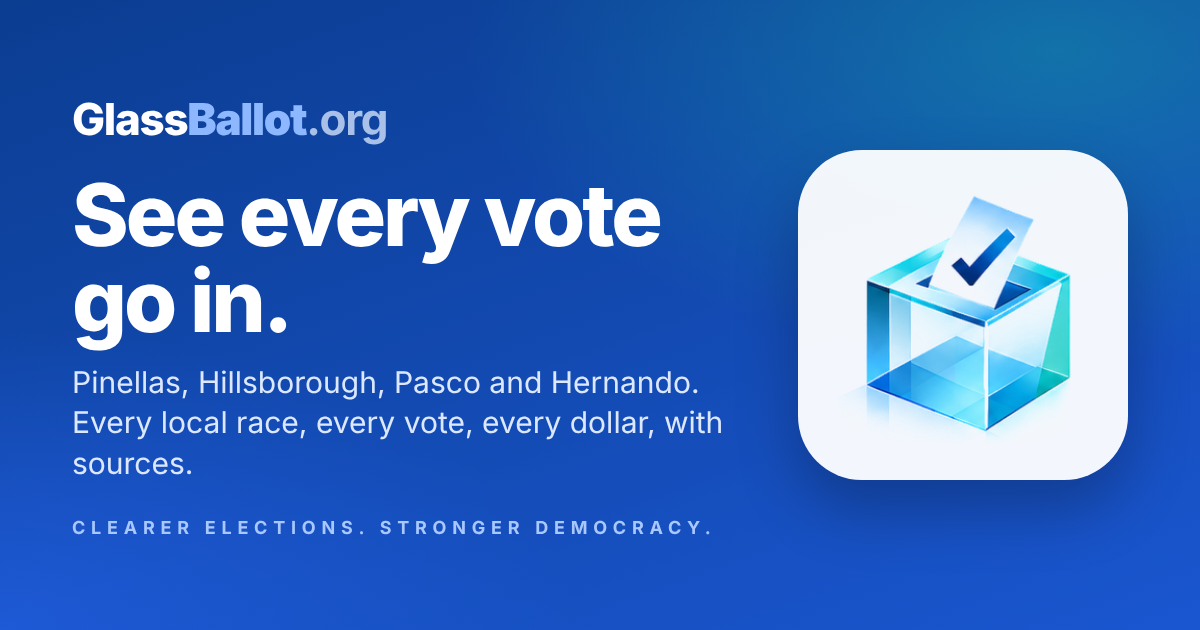
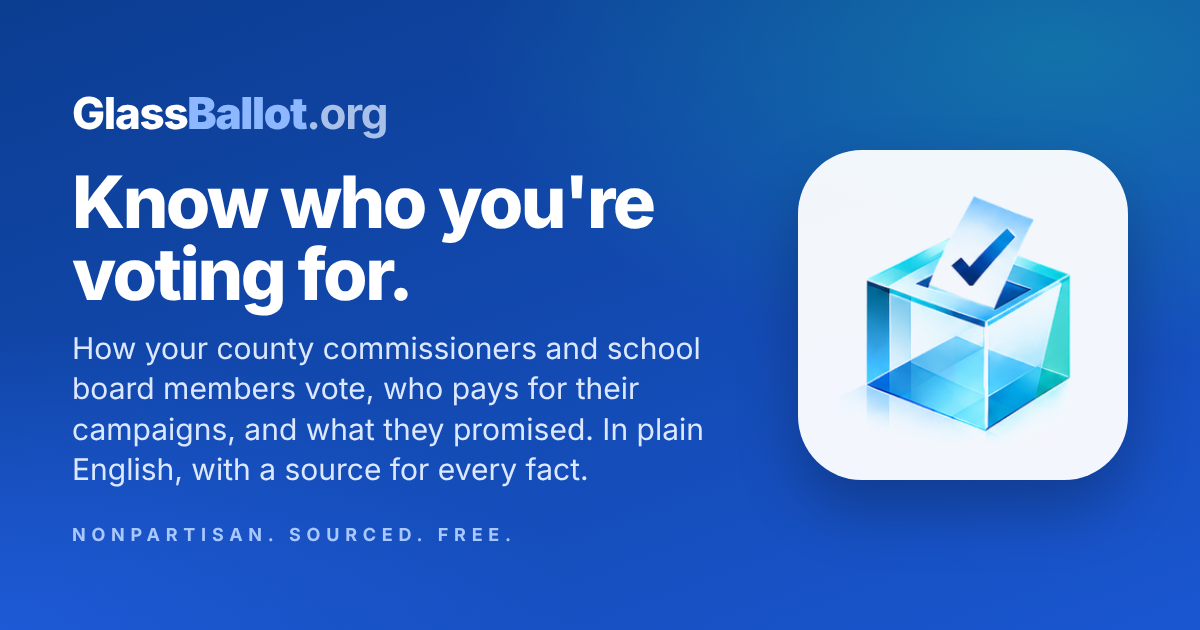
New share card and title: 'Know who you're voting for.'
Claude-Session: https://claude.ai/code/session_01SbucN7eT2yuPfmwq5x7Te8

Changed region(s): [[0.0617, 0.2714, 0.6167, 0.7841], [0.0617, 0.8143, 0.5858, 0.8746], [0.0617, 0.1508, 0.3392, 0.2413]]

diff --git a/dist/index.html b/dist/index.html
@@ -10,7 +10,7 @@
 <meta name="theme-color" content="#0B3D91">
 <meta property="og:type" content="website">
 <meta property="og:site_name" content="Glass Ballot">
-<meta property="og:title" content="Glass Ballot: see every vote go in">
+<meta property="og:title" content="Glass Ballot: know who you're voting for">
 <meta property="og:description" content="Nonpartisan voter guide to Florida county commission and school board races. Every local race, every commission vote, who funds each candidate, and a source behind every fact.">
 <meta property="og:url" content="https://glassballot.org/">
 <meta property="og:image" content="https://glassballot.org/og.png">

diff --git a/pipeline/dist.py b/pipeline/dist.py
@@ -31,7 +31,7 @@ HEAD = f"""<!doctype html>
 <meta name="theme-color" content="#0B3D91">
 <meta property="og:type" content="website">
 <meta property="og:site_name" content="Glass Ballot">
-<meta property="og:title" content="Glass Ballot: see every vote go in">
+<meta property="og:title" content="Glass Ballot: know who you're voting for">
 <meta property="og:description" content="{DESC}">
 <meta property="og:url" content="{SITE}/">
 <meta property="og:image" content="{SITE}/og.png">
@@ -51,16 +51,16 @@ body{margin:0;width:1200px;height:630px;font-family:"Plus Jakarta Sans",system-u
 background:radial-gradient(90% 90% at 88% 8%,rgba(20,184,166,.38),transparent 55%),radial-gradient(80% 80% at 0% 100%,rgba(37,99,235,.6),transparent 60%),linear-gradient(160deg,#0B3D91,#1A56D0)}
 .w{box-sizing:border-box;height:630px;padding:64px 72px;display:grid;grid-template-columns:1fr 330px;gap:30px;align-items:center}
 .b{font-weight:800;font-size:44px;letter-spacing:-.03em}.b b{color:#8DB8FF}.b i{font-style:normal;color:#A9C0E8;font-weight:700}
-h1{margin:26px 0 18px;font-size:86px;line-height:1;letter-spacing:-.035em;font-weight:800}
+h1{margin:26px 0 18px;font-size:72px;line-height:1;letter-spacing:-.035em;font-weight:800}
 p{margin:0;font-size:30px;color:#DCE8FF;line-height:1.35;font-family:Inter,system-ui,sans-serif}
 .t{margin-top:34px;font-size:18px;letter-spacing:.32em;font-weight:700;color:#A9C8FF}
 .box{width:330px;height:330px;border-radius:64px;background:rgba(255,255,255,.95);display:flex;align-items:center;justify-content:center;box-shadow:0 30px 60px rgba(0,0,0,.25)}
 .box img{width:250px}
 </style></head><body><div class="w"><div>
 <div class="b">Glass<b>Ballot</b><i>.org</i></div>
-<h1>See every vote go in.</h1>
-<p>Pinellas, Hillsborough, Pasco and Hernando. Every local race, every vote, every dollar, with sources.</p>
-<div class="t">CLEARER ELECTIONS. STRONGER DEMOCRACY.</div></div>
+<h1>Know who you're voting for.</h1>
+<p>How your county commissioners and school board members vote, who pays for their campaigns, and what they promised. In plain English, with a source for every fact.</p>
+<div class="t">NONPARTISAN. SOURCED. FREE.</div></div>
 <div class="box"><img src="assets/logo-box.png"></div></div></body></html>"""
 
 
